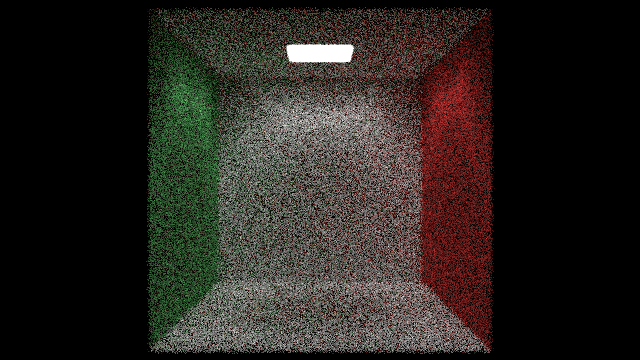
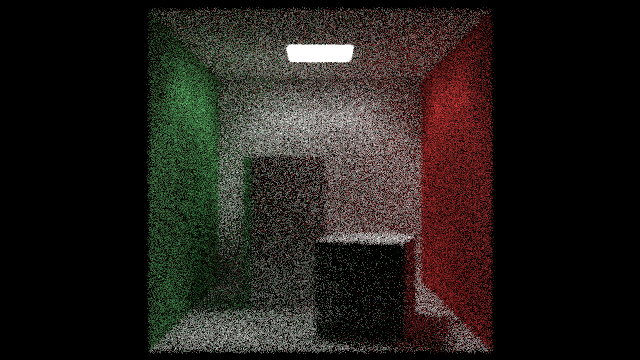
Instance

diff --git a/lib/src/hit.cpp b/lib/src/hit.cpp
@@ -1,6 +1,7 @@
 #include<hit.h>
 #include<cmath>
 #include<algorithm>
+#include<limits>
 
 using namespace std;
 
@@ -164,6 +165,27 @@ bool quadobjxz::boundingBox(double time0, double time1, aabb& outputbox) const {
 	return true;
 }
 
+cubeobj::cubeobj(const point& p0, const point& p1, shared_ptr<material> matPtr): boxMin(p0), boxMax(p1) {
+	this->sides.add(make_shared<quadobjxy>(p0.x(), p1.x(), p0.y(), p1.y(), p1.z(), matPtr));
+	this->sides.add(make_shared<quadobjxy>(p0.x(), p1.x(), p0.y(), p1.y(), p0.z(), matPtr));
+
+	this->sides.add(make_shared<quadobjyz>(p0.y(), p1.y(), p0.z(), p1.z(), p1.x(), matPtr));
+	this->sides.add(make_shared<quadobjyz>(p0.y(), p1.y(), p0.z(), p1.z(), p0.x(), matPtr));
+
+	this->sides.add(make_shared<quadobjxz>(p0.x(), p1.x(), p0.z(), p1.z(), p1.y(), matPtr));
+	this->sides.add(make_shared<quadobjxz>(p0.x(), p1.x(), p0.z(), p1.z(), p0.y(), matPtr));
+}
+
+bool cubeobj::hit(const ray& r, double t_min, double t_max, hit_record& rec) const {
+	return this->sides.hit(r, t_min, t_max, rec);
+}
+
+bool cubeobj::boundingBox(double time0, double time1, aabb& outputbox) const {
+	outputbox = aabb(this->boxMin, this->boxMax);
+	return true;
+}
+
+
 void hit_list::add(shared_ptr<hitobj> obj) {
 	this->objs.push_back(obj);
 }
@@ -273,4 +295,93 @@ bool bvhnode::hit(const ray& r, double t_min, double t_max, hit_record& rec) con
 bool bvhnode::boundingBox(double time0, double time1, aabb& outputbox) const {
 	outputbox = this->box;
 	return true;
+}
+
+bool translate::hit(const ray& r, double t_min, double t_max, hit_record& rec) const {
+	ray movedr = ray(r.origin() - offset, r.direction(), r.time());
+	if(!obj->hit(movedr, t_min, t_max, rec)) {
+		return false;
+	}
+	rec.p += offset;
+	rec.frontFacing = dot(movedr.direction(), rec.normal) < 0;
+	rec.normal = rec.frontFacing ? rec.normal : -rec.normal;
+	rec.normal = rec.normal.normalize();
+	return true;
+}
+
+bool translate::boundingBox(double time0, double time1, aabb& outputbox) const {
+	if(!obj->boundingBox(time0, time1, outputbox)) {
+		return false;
+	}
+	outputbox = aabb(outputbox.min() + offset, outputbox.max() + offset);
+	return true;
+}
+
+rotatey::rotatey(shared_ptr<hitobj> ptr, double ang) : obj(ptr) {
+	double rad = ang * M_PI / 180.0f;
+	this->sinTheta = sin(rad);
+	this->cosTheta = cos(rad);
+	this->hasBox = ptr->boundingBox(0, 0, this->box);
+
+	point min = point(numeric_limits<double>::infinity(), numeric_limits<double>::infinity(), numeric_limits<double>::infinity());
+	point max = point(-numeric_limits<double>::infinity(), -numeric_limits<double>::infinity(), -numeric_limits<double>::infinity());
+
+	for (int i = 0; i < 2; i++) {
+		for (int j = 0; j < 2; j++) {
+			for (int k = 0; k < 2; k++) {
+				double x = i * this->box.max().x() + (1 - i) * this->box.min().x();
+				double y = j * this->box.max().y() + (1 - j) * this->box.min().y();
+				double z = k * this->box.max().z() + (1 - k) * this->box.min().z();
+
+				auto newx = this->cosTheta * x + this->sinTheta * z;
+				auto newz = -this->sinTheta * x + this->cosTheta * z;
+
+				vector3 tester(newx, y, newz);
+
+				for (int c = 0; c < 3; c++) {
+					min[c] = fmin(min[c], tester[c]);
+					max[c] = fmax(max[c], tester[c]);
+				}
+			}
+		}
+	}
+	this->box = aabb(min, max);
+}
+
+bool rotatey::hit(const ray& r, double t_min, double t_max, hit_record& rec) const {
+	vector3 origin = r.origin();
+	vector3 direction = r.direction();
+
+	origin[0] = this->cosTheta * r.origin()[0] - this->sinTheta * r.origin()[2];
+	origin[2] = this->sinTheta * r.origin()[0] + this->cosTheta * r.origin()[2];
+
+	direction[0] = this->cosTheta * r.direction()[0] - this->sinTheta * r.direction()[2];
+	direction[2] = this->sinTheta * r.direction()[0] + this->cosTheta * r.direction()[2];
+
+	ray rotatedr(origin, direction, r.time());
+
+	if (!obj->hit(rotatedr, t_min, t_max, rec)) {
+		return false;
+	}
+
+	point p = rec.p;
+	vector3 normal = rec.normal;
+
+	p[0] = this->cosTheta * rec.p[0] + this->sinTheta * rec.p[2];
+	p[2] = -this->sinTheta * rec.p[0] + this->cosTheta * rec.p[2];
+
+	normal[0] = this->cosTheta * rec.normal[0] + this->sinTheta * rec.normal[2];
+	normal[2] = -this->sinTheta * rec.normal[0] + this->cosTheta * rec.normal[2];
+
+	rec.p = p;
+	rec.frontFacing = dot(rotatedr.direction(), normal) < 0;
+	rec.normal = rec.frontFacing ? normal : -normal;
+	rec.normal = rec.normal.normalize();
+
+	return true;
+}
+
+bool rotatey::boundingBox(double time0, double time1, aabb& outputbox) const {
+	outputbox = this->box;
+	return this->hasBox;
 }

diff --git a/include/hit.h b/include/hit.h
@@ -98,6 +98,18 @@ public:
 	friend bvhnode;
 };
 
+class cubeobj : public hitobj {
+private:
+	hit_list sides;
+	point boxMin;
+	point boxMax;
+public:
+	cubeobj() {}
+	cubeobj(const point& p0, const point& p1, std::shared_ptr<material> matPtr);
+	virtual bool hit(const ray& r, double t_min, double t_max, hit_record& rec) const override;
+	virtual bool boundingBox(double time0, double time1, aabb& outputbox) const override;
+};
+
 class bvhnode : public hitobj {
 private:
 	std::shared_ptr<hitobj> left;
@@ -107,6 +119,29 @@ public:
 	bvhnode() {}
 	bvhnode(const hit_list& list, double time0, double time1) : bvhnode(list.objs, 0, list.objs.size(), time0, time1) {}
 	bvhnode(const std::vector<std::shared_ptr<hitobj>>& srcObjects, size_t start, size_t end, double time0, double time1);
+	virtual bool hit(const ray& r, double t_min, double t_max, hit_record& rec) const override;
+	virtual bool boundingBox(double time0, double time1, aabb& outputbox) const override;
+};
+
+class translate : public hitobj {
+private:
+	std::shared_ptr<hitobj> obj;
+	vector3 offset;
+public:
+	translate(std::shared_ptr<hitobj> ptr, vector3 off) : obj(ptr), offset(off) {}
+	virtual bool hit(const ray& r, double t_min, double t_max, hit_record& rec) const override;
+	virtual bool boundingBox(double time0, double time1, aabb& outputbox) const override;
+};
+
+class rotatey : public hitobj {
+private:
+	std::shared_ptr<hitobj> obj;
+	double sinTheta;
+	double cosTheta;
+	bool hasBox;
+	aabb box;
+public:
+	rotatey(std::shared_ptr<hitobj> ptr, double ang);
 	virtual bool hit(const ray& r, double t_min, double t_max, hit_record& rec) const override;
 	virtual bool boundingBox(double time0, double time1, aabb& outputbox) const override;
 };

diff --git a/src/20_Instances/image.cpp b/src/20_Instances/image.cpp
@@ -9,10 +9,6 @@
 #define STB_IMAGE_WRITE_IMPLEMENTATION
 #include<stb_image_write.h>
 
-#ifndef RESOURCE_PATH
-#define RESOURCE_PATH ""
-#endif
-
 using namespace std;
 
 color rayColorFor(const ray& currentray, const hitobj& world, int depth) {
@@ -46,7 +42,15 @@ hit_list generateScene() {
 	world.add(make_shared<quadobjxz>(0, 555, 0, 555, 0, white));
 	world.add(make_shared<quadobjxz>(0, 555, 0, 555, 555, white));
 	world.add(make_shared<quadobjxy>(0, 555, 0, 555, 555, white));
+	shared_ptr<hitobj> box1 = make_shared<cubeobj>(point(0, 0, 0), point(165, 330, 165), white);
+	box1 = make_shared<rotatey>(box1, 15);
+	box1 = make_shared<translate>(box1, vector3(265,0,295));
+	world.add(box1);
 
+	shared_ptr<hitobj> box2 = make_shared<cubeobj>(point(0,0,0), point(165,165,165), white);
+	box2 = make_shared<rotatey>(box2, -18);
+	box2 = make_shared<translate>(box2, vector3(130,0,65));
+	world.add(box2);
 	return world;
 }
 
